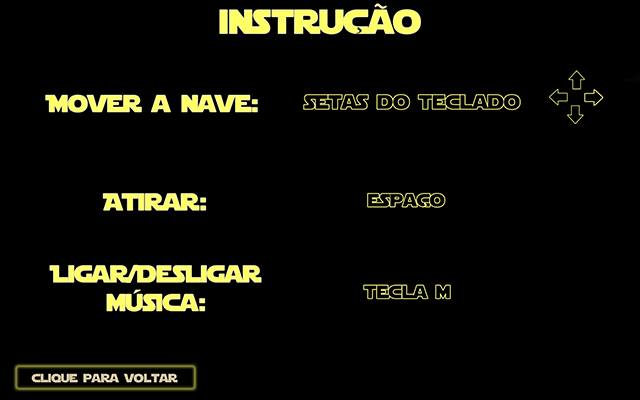
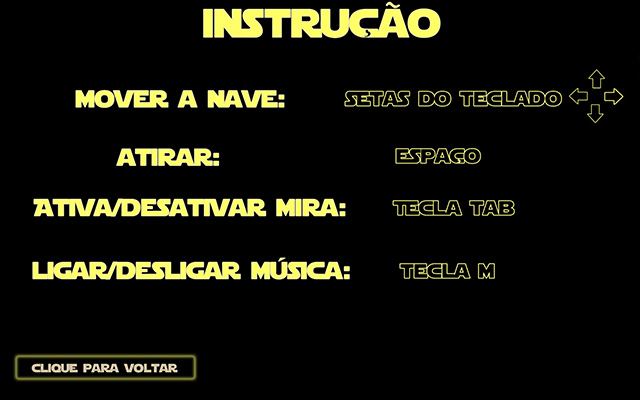
toggle mira

diff --git a/Main/app.js b/Main/app.js
@@ -39,6 +39,7 @@ nolife.volume = 0.35
 
 //flag audio musica
 var on = true
+var miraOn = true
 
 //Numero de asteroides e inimigos
 var N_OBJS = 11
@@ -102,8 +103,9 @@ var onProgress = function ( xhr ) {
 var Mapa = function(texPath) {
   //criando pois somente é retornado um objeto
   var mapa = new THREE.Object3D()
-  var formas = []
-
+  var formas = [];
+  var hitbox;
+  this.hitbox = new THREE.Box3();
   //criando um malha
   formas.push(new THREE.Mesh(
     new THREE.CylinderGeometry(diametro, diametro, 5000, 24, 24, true),//forma cilindrica
@@ -135,8 +137,8 @@ var Mapa = function(texPath) {
           break
         }
       }
+      this.hitbox.setFromObject(mapa)
     }
-
 
   return this;
 }
@@ -369,7 +371,7 @@ var teclado = new THREEx.KeyboardState();
 var clock = new THREE.Clock();
 //angulo da nava no eixo z
 var ang = 0;
-
+var canGo = [true,true,true,true] // can go [left,right,up,down]
 var updatePos = function(){
   //tempo entre uma chamada e outra
   var delta = clock.getDelta()
@@ -378,16 +380,42 @@ var updatePos = function(){
   // valor de quanto a nave vai girar
   var angulo = Math.PI/5*delta;
 
+  if(mapa.hitbox.containsBox(jogador.hitbox)){
+    for(var i = 0;i<canGo.length;i++){
+      canGo[i]=true
+    }
+  }
+
   //verificando as teclas
-  if(teclado.pressed("left")){
+  if(teclado.pressed("left") && canGo[0]){
+
     view.position.x-=distancia;
+    //se ele nao podia ir pra direita, agora pode
+    if(!canGo[1]){
+      canGo[1]=true
+    }
+    //se o mapa nao coontem o jogador ele nao pode ir mais para esquerda
+    if(!mapa.hitbox.containsBox(jogador.hitbox)){
+      view.position.x+=distancia ;
+      canGo[0]=false
+    }
     if(ang>-Math.PI/8){
     view.children[0].rotation.z-=angulo
     ang-=angulo
-    }
   }
-  if(teclado.pressed("right")){
+  }
+  if(teclado.pressed("right") && canGo[1]){
+
     view.position.x+=distancia;
+    if(!canGo[0]){
+      canGo[0]=true
+    }
+    //se o mapa nao coontem o jogador ele nao pode ir mais para direita
+    if(!mapa.hitbox.containsBox(jogador.hitbox)){
+      view.position.x-=distancia ;
+      canGo[1]=false
+    }
+
     if(ang<Math.PI/8){
     view.children[0].rotation.z+=angulo
     ang+=angulo
@@ -395,24 +423,50 @@ var updatePos = function(){
   }
   //retornando a nave para horizontal caso nao esteja se movendo
   if(!teclado.pressed("right") && !teclado.pressed("left")){
-    if(ang>Math.PI/90){
+    if(ang>Math.PI/180){
       view.children[0].rotation.z-=angulo
       ang-=angulo
+      if(!mapa.hitbox.containsBox(jogador.hitbox)){
+        view.position.x-=distancia
+      }
     }else{//corrigir bug de tremer o objeto por variar entre pequenos angulos
-      if(ang<-Math.PI/90){
+      if(ang<-Math.PI/180){
         view.children[0].rotation.z+=angulo
         ang+=angulo
+        if(!mapa.hitbox.containsBox(jogador.hitbox)){
+          view.position.x+=distancia
+        }
       }else{
         view.children[0].rotation.z=0
         ang=0
       }
     }
   }
-  if(teclado.pressed("up")){
+  if(teclado.pressed("up") && canGo[2]){
     view.position.y+=distancia;
+    if(!canGo[3]){
+      canGo[3]=true
+    }
+    //se o mapa nao coontem o jogador ele nao pode ir mais para cima
+    if(!mapa.hitbox.containsBox(jogador.hitbox)){
+      view.position.y-=distancia ;
+      canGo[2]=false
+    }
+
+
   }else{
-    if(teclado.pressed("down")){
+    if(teclado.pressed("down") && canGo[3]){
     view.position.y-=distancia;
+    if(!canGo[2]){
+      canGo[2]=true
+    }
+    //se o mapa nao coontem o jogador ele nao pode ir mais para baixo
+    if(!mapa.hitbox.containsBox(jogador.hitbox)){
+      view.position.y+=distancia ;
+      canGo[3]=false
+    }
+
+
   }}
 
 }
@@ -544,6 +598,8 @@ var gameoverState = function(){
   Mundo.pause();
   document.getElementById("backgroundAudio").pause()
   gameover.play()
+  somTiro.volume=0.0
+  somTiro2.volume=0.0
   //mudar de layout e exibir a pontuação feita
   document.getElementById("infobar").style.display='none';
   document.getElementById("pontuacao").innerHTML = "Pontos : "+jogador.pontos;
@@ -567,6 +623,9 @@ window.resetarMundo = function(){
 
   //pausar a musica de gameover
   gameover.pause();
+
+  somTiro.volume=0.35
+  somTiro2.volume=0.35
 
   //mudar de layout
   document.getElementById("infobar").style.display='block';
@@ -631,6 +690,8 @@ Mundo.add(mapa.getMapa())
 //---------------------------------eventos------------------------------------
 window.addEventListener('keydown',
  function(e) {
+   // nao utilizar o comando padra
+   e.preventDefault()
     //pausar a musica
     if(e.keyCode == 77){//m
       var audio = document.getElementById("backgroundAudio");
@@ -641,6 +702,17 @@ window.addEventListener('keydown',
         audio.play()
         on=true
       }
+    }
+
+    if(e.keyCode == 9){//tab
+      if(miraOn){
+        miraOn=false
+        Mundo.remove(mira)
+      }else{
+        miraOn=true
+        Mundo.add(mira)
+      }
+
     }
 }
 )

diff --git a/Main/js/main.js b/Main/js/main.js
@@ -38,6 +38,7 @@ nolife.volume = 0.35
 
 //flag audio musica
 var on = true
+var miraOn = true
 
 //Numero de asteroides e inimigos
 var N_OBJS = 11
@@ -101,8 +102,9 @@ var onProgress = function ( xhr ) {
 var Mapa = function(texPath) {
   //criando pois somente é retornado um objeto
   var mapa = new THREE.Object3D()
-  var formas = []
-
+  var formas = [];
+  var hitbox;
+  this.hitbox = new THREE.Box3();
   //criando um malha
   formas.push(new THREE.Mesh(
     new THREE.CylinderGeometry(diametro, diametro, 5000, 24, 24, true),//forma cilindrica
@@ -134,8 +136,8 @@ var Mapa = function(texPath) {
           break
         }
       }
+      this.hitbox.setFromObject(mapa)
     }
-
 
   return this;
 }
@@ -368,7 +370,7 @@ var teclado = new THREEx.KeyboardState();
 var clock = new THREE.Clock();
 //angulo da nava no eixo z
 var ang = 0;
-
+var canGo = [true,true,true,true] // can go [left,right,up,down]
 var updatePos = function(){
   //tempo entre uma chamada e outra
   var delta = clock.getDelta()
@@ -377,16 +379,42 @@ var updatePos = function(){
   // valor de quanto a nave vai girar
   var angulo = Math.PI/5*delta;
 
+  if(mapa.hitbox.containsBox(jogador.hitbox)){
+    for(var i = 0;i<canGo.length;i++){
+      canGo[i]=true
+    }
+  }
+
   //verificando as teclas
-  if(teclado.pressed("left")){
+  if(teclado.pressed("left") && canGo[0]){
+
     view.position.x-=distancia;
+    //se ele nao podia ir pra direita, agora pode
+    if(!canGo[1]){
+      canGo[1]=true
+    }
+    //se o mapa nao coontem o jogador ele nao pode ir mais para esquerda
+    if(!mapa.hitbox.containsBox(jogador.hitbox)){
+      view.position.x+=distancia ;
+      canGo[0]=false
+    }
     if(ang>-Math.PI/8){
     view.children[0].rotation.z-=angulo
     ang-=angulo
-    }
   }
-  if(teclado.pressed("right")){
+  }
+  if(teclado.pressed("right") && canGo[1]){
+
     view.position.x+=distancia;
+    if(!canGo[0]){
+      canGo[0]=true
+    }
+    //se o mapa nao coontem o jogador ele nao pode ir mais para direita
+    if(!mapa.hitbox.containsBox(jogador.hitbox)){
+      view.position.x-=distancia ;
+      canGo[1]=false
+    }
+
     if(ang<Math.PI/8){
     view.children[0].rotation.z+=angulo
     ang+=angulo
@@ -394,24 +422,50 @@ var updatePos = function(){
   }
   //retornando a nave para horizontal caso nao esteja se movendo
   if(!teclado.pressed("right") && !teclado.pressed("left")){
-    if(ang>Math.PI/90){
+    if(ang>Math.PI/180){
       view.children[0].rotation.z-=angulo
       ang-=angulo
+      if(!mapa.hitbox.containsBox(jogador.hitbox)){
+        view.position.x-=distancia
+      }
     }else{//corrigir bug de tremer o objeto por variar entre pequenos angulos
-      if(ang<-Math.PI/90){
+      if(ang<-Math.PI/180){
         view.children[0].rotation.z+=angulo
         ang+=angulo
+        if(!mapa.hitbox.containsBox(jogador.hitbox)){
+          view.position.x+=distancia
+        }
       }else{
         view.children[0].rotation.z=0
         ang=0
       }
     }
   }
-  if(teclado.pressed("up")){
+  if(teclado.pressed("up") && canGo[2]){
     view.position.y+=distancia;
+    if(!canGo[3]){
+      canGo[3]=true
+    }
+    //se o mapa nao coontem o jogador ele nao pode ir mais para cima
+    if(!mapa.hitbox.containsBox(jogador.hitbox)){
+      view.position.y-=distancia ;
+      canGo[2]=false
+    }
+
+
   }else{
-    if(teclado.pressed("down")){
+    if(teclado.pressed("down") && canGo[3]){
     view.position.y-=distancia;
+    if(!canGo[2]){
+      canGo[2]=true
+    }
+    //se o mapa nao coontem o jogador ele nao pode ir mais para baixo
+    if(!mapa.hitbox.containsBox(jogador.hitbox)){
+      view.position.y+=distancia ;
+      canGo[3]=false
+    }
+
+
   }}
 
 }
@@ -543,6 +597,8 @@ var gameoverState = function(){
   Mundo.pause();
   document.getElementById("backgroundAudio").pause()
   gameover.play()
+  somTiro.volume=0.0
+  somTiro2.volume=0.0
   //mudar de layout e exibir a pontuação feita
   document.getElementById("infobar").style.display='none';
   document.getElementById("pontuacao").innerHTML = "Pontos : "+jogador.pontos;
@@ -566,6 +622,9 @@ window.resetarMundo = function(){
 
   //pausar a musica de gameover
   gameover.pause();
+
+  somTiro.volume=0.35
+  somTiro2.volume=0.35
 
   //mudar de layout
   document.getElementById("infobar").style.display='block';
@@ -630,6 +689,8 @@ Mundo.add(mapa.getMapa())
 //---------------------------------eventos------------------------------------
 window.addEventListener('keydown',
  function(e) {
+   // nao utilizar o comando padra
+   e.preventDefault()
     //pausar a musica
     if(e.keyCode == 77){//m
       var audio = document.getElementById("backgroundAudio");
@@ -640,6 +701,17 @@ window.addEventListener('keydown',
         audio.play()
         on=true
       }
+    }
+
+    if(e.keyCode == 9){//tab
+      if(miraOn){
+        miraOn=false
+        Mundo.remove(mira)
+      }else{
+        miraOn=true
+        Mundo.add(mira)
+      }
+
     }
 }
 )
